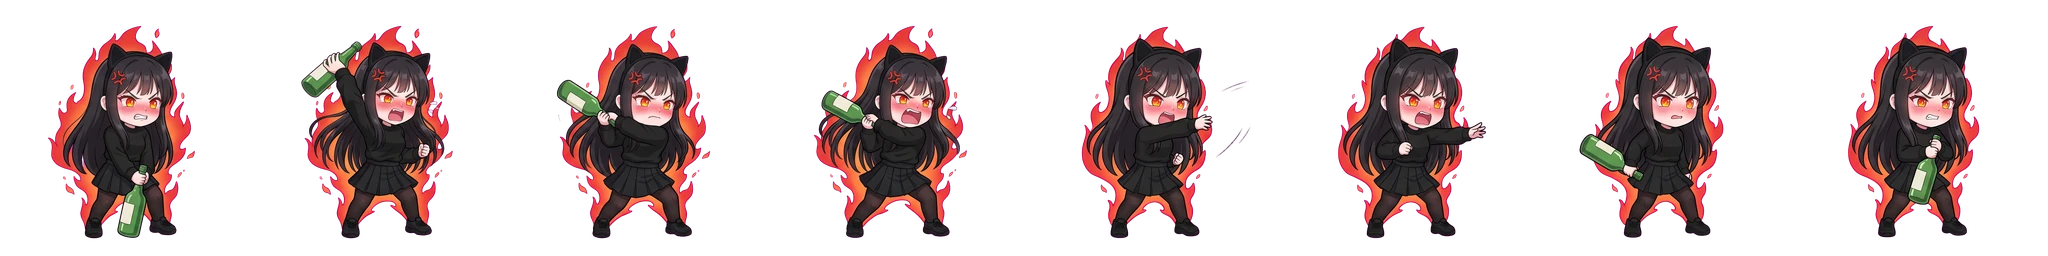
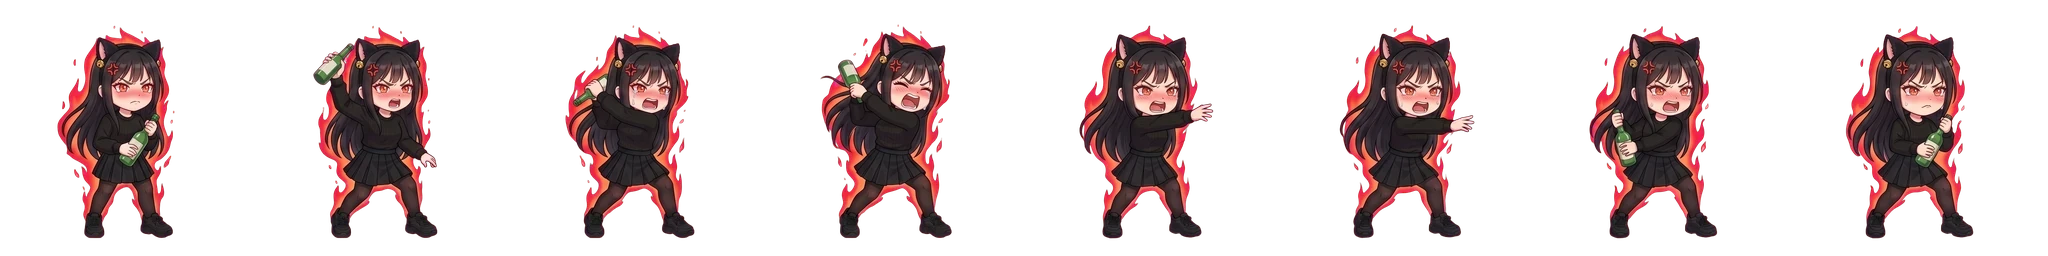
최은옥 그림체를 다른 멤버에 맞춰 다시 그림 (도감 HQ · 두 모습 · 썸네일 · 작은 도감 · 인게임 평소/분노 띠) — 우리 멤버 그림을 참고로 붙여 Gemini 로 생성 · 성인 비율 · 키 작게 · 얼굴 위치 새로 · ART_VER 4 · ?v=20261014r
Claude-Session: https://claude.ai/code/session_016zscpnQTe5fAmJRC7J2Wse

diff --git a/public/langbang/game.js b/public/langbang/game.js
@@ -6208,10 +6208,10 @@ const DEX_FLAVOR = {
 };
 // 도감 카드 세로 영문 이름 · 얼굴 위치 (dexhq 전신 그림 기준: 가운데 x, y, 얼굴 폭 — 그림 폭 대비)
 const DEX_EN = { dragon: 'PARK NAYOUNG', subin: 'LIM SUBIN', baul: 'SONG BAUL', byunghwa: 'KANG BYUNGHWA', jeongseob: 'YOON JEONGSEOB', jiwon: 'YEO JIWON', wonsik: 'JUNG WONSIK', bangjang: 'BANGJANG', staff: 'STAFF', gunman: 'MR. CLEAN', gunnyeo: 'MS. CLEAN', myunghoon: 'SEO MYUNGHOON', dohoon: 'KIM DOHOON', ingyu: 'BAEK INGYU', donghan: 'MOON DONGHAN', youngjun: 'KIM YOUNGJUN', eunok: 'CHOI EUNOK', hanna: 'LEE HANNA', sunggu: 'KANG SUNGGU', junseo: 'YOON JUNSEO', hyungyeong: 'BAE HYUNGYEONG', ara: 'KO ARA', hochan: 'LEE HOCHAN', soyoung: 'JEONG SOYOUNG', jieun: 'OH JIEUN', sanghwa: 'PARK SANGHWA', jungmin: 'HONG JUNGMIN' };
-const DEX_FACE = { subin: [0.53, 0.115, 0.13], baul: [0.49, 0.085, 0.12], byunghwa: [0.42, 0.085, 0.11], jeongseob: [0.5, 0.1, 0.13], hochan: [0.49, 0.125, 0.17], bangjang: [0.45, 0.1, 0.15], staff: [0.47, 0.085, 0.13], gunnyeo: [0.47, 0.09, 0.13], eunok: [0.52, 0.19, 0.13], hanna: [0.47, 0.083, 0.13], sunggu: [0.49, 0.09, 0.14], gunman: [0.58, 0.085, 0.13], dohoon: [0.55, 0.09, 0.13], myunghoon: [0.56, 0.1, 0.15], youngjun: [0.49, 0.085, 0.13], donghan: [0.62, 0.11, 0.17], ingyu: [0.48, 0.1, 0.13], junseo: [0.55, 0.11, 0.14], ara: [0.37, 0.32, 0.12], hyungyeong: [0.55, 0.19, 0.2], jungmin: [0.44, 0.11, 0.12], soyoung: [0.47, 0.11, 0.13], jieun: [0.52, 0.12, 0.13], sanghwa: [0.45, 0.07, 0.12], jiwon: [0.48, 0.075, 0.12], wonsik: [0.47, 0.08, 0.12], baul: [0.49, 0.085, 0.12], junyoung: [0.5, 0.2, 0.3] }; // [가로 가운데, 세로 가운데, 얼굴 높이] (그림 대비)
+const DEX_FACE = { subin: [0.53, 0.115, 0.13], baul: [0.49, 0.085, 0.12], byunghwa: [0.42, 0.085, 0.11], jeongseob: [0.5, 0.1, 0.13], hochan: [0.49, 0.125, 0.17], bangjang: [0.45, 0.1, 0.15], staff: [0.47, 0.085, 0.13], gunnyeo: [0.47, 0.09, 0.13], eunok: [0.53, 0.248, 0.105], hanna: [0.47, 0.083, 0.13], sunggu: [0.49, 0.09, 0.14], gunman: [0.58, 0.085, 0.13], dohoon: [0.55, 0.09, 0.13], myunghoon: [0.56, 0.1, 0.15], youngjun: [0.49, 0.085, 0.13], donghan: [0.62, 0.11, 0.17], ingyu: [0.48, 0.1, 0.13], junseo: [0.55, 0.11, 0.14], ara: [0.37, 0.32, 0.12], hyungyeong: [0.55, 0.19, 0.2], jungmin: [0.44, 0.11, 0.12], soyoung: [0.47, 0.11, 0.13], jieun: [0.52, 0.12, 0.13], sanghwa: [0.45, 0.07, 0.12], jiwon: [0.48, 0.075, 0.12], wonsik: [0.47, 0.08, 0.12], baul: [0.49, 0.085, 0.12], junyoung: [0.5, 0.2, 0.3] }; // [가로 가운데, 세로 가운데, 얼굴 높이] (그림 대비)
 // 얼굴 맞춤 자르기: 얼굴 높이 = 칸 높이의 f · 얼굴 가운데 = (50%, cy) — 그림 비율과 상관없이 (자기 크기 기준 translate)
 // 동그란 얼굴용 얼굴 상자 (썸네일 기준 · 이마~턱 · 가운데 x, 가운데 y, 높이) — 그림을 재서 맞춘 값
-const FACE_BOX = { subin: [0.53, 0.12, 0.095], byunghwa: [0.42, 0.1, 0.075], hochan: [0.44, 0.115, 0.085], bangjang: [0.47, 0.1, 0.085], staff: [0.47, 0.115, 0.09], gunnyeo: [0.39, 0.135, 0.11], eunok: [0.52, 0.2, 0.11], hanna: [0.49, 0.11, 0.11], sunggu: [0.52, 0.165, 0.1], gunman: [0.55, 0.115, 0.09], dohoon: [0.57, 0.165, 0.095], myunghoon: [0.565, 0.145, 0.13], youngjun: [0.575, 0.18, 0.1], donghan: [0.63, 0.19, 0.12], ingyu: [0.45, 0.105, 0.095], junseo: [0.56, 0.115, 0.095], ara: [0.42, 0.32, 0.1], hyungyeong: [0.55, 0.24, 0.12], jungmin: [0.42, 0.155, 0.09], soyoung: [0.45, 0.145, 0.09], jieun: [0.55, 0.145, 0.11], sanghwa: [0.48, 0.11, 0.085], jiwon: [0.47, 0.095, 0.075], wonsik: [0.6, 0.095, 0.09], baul: [0.49, 0.09, 0.085], jeongseob: [0.52, 0.08, 0.075] };
+const FACE_BOX = { subin: [0.53, 0.12, 0.095], byunghwa: [0.42, 0.1, 0.075], hochan: [0.44, 0.115, 0.085], bangjang: [0.47, 0.1, 0.085], staff: [0.47, 0.115, 0.09], gunnyeo: [0.39, 0.135, 0.11], eunok: [0.53, 0.255, 0.09], hanna: [0.49, 0.11, 0.11], sunggu: [0.52, 0.165, 0.1], gunman: [0.55, 0.115, 0.09], dohoon: [0.57, 0.165, 0.095], myunghoon: [0.565, 0.145, 0.13], youngjun: [0.575, 0.18, 0.1], donghan: [0.63, 0.19, 0.12], ingyu: [0.45, 0.105, 0.095], junseo: [0.56, 0.115, 0.095], ara: [0.42, 0.32, 0.1], hyungyeong: [0.55, 0.24, 0.12], jungmin: [0.42, 0.155, 0.09], soyoung: [0.45, 0.145, 0.09], jieun: [0.55, 0.145, 0.11], sanghwa: [0.48, 0.11, 0.085], jiwon: [0.47, 0.095, 0.075], wonsik: [0.6, 0.095, 0.09], baul: [0.49, 0.09, 0.085], jeongseob: [0.52, 0.08, 0.075] };
 // 동그라미 안에 얼굴: 얼굴(이마~턱)이 지름의 70% · 가운데
 function faceCircStyle(id, f = 0.7, cy = 0.5) {
   const fb = (HWUI && HWUI.costumeFace(id)) || FACE_BOX[id] || DEX_FACE[id] || [0.48, 0.12, 0.1]; // (할로윈 의상 썸네일은 의상 얼굴 자리)

diff --git a/public/langbang/index.html b/public/langbang/index.html
@@ -28,14 +28,14 @@
   <link rel="stylesheet" href="https://cdn.jsdelivr.net/gh/orioncactus/pretendard@v1.3.9/dist/web/variable/pretendardvariable-dynamic-subset.min.css">
   <style>#bootld{position:fixed;inset:0;z-index:90;background:#0b0a16;display:grid;place-items:end center;transition:opacity .35s}#bootld .bl-bg{position:absolute;inset:0;width:100%;height:100%;object-fit:cover;opacity:.55}#bootld.out{opacity:0;pointer-events:none}</style>
   <link rel="preload" as="image" href="/img/lb/title_poster.jpg?v=3" fetchpriority="high">
-  <link rel="stylesheet" href="/langbang/style.css?v=20261014q">
-  <link rel="stylesheet" href="/langbang/friends.css?v=20261014q">
-  <link rel="stylesheet" href="/langbang/tower.css?v=20261014q">
-  <link rel="stylesheet" href="/langbang/raid2.css?v=20261014q">
-  <link rel="stylesheet" href="/langbang/bonkae.css?v=20261014q">
-  <link rel="stylesheet" href="/langbang/transit.css?v=20261014q">
-  <link rel="stylesheet" href="/langbang/tutorial.css?v=20261014q">
-  <link rel="stylesheet" href="/langbang/hw.css?v=20261014q">
+  <link rel="stylesheet" href="/langbang/style.css?v=20261014r">
+  <link rel="stylesheet" href="/langbang/friends.css?v=20261014r">
+  <link rel="stylesheet" href="/langbang/tower.css?v=20261014r">
+  <link rel="stylesheet" href="/langbang/raid2.css?v=20261014r">
+  <link rel="stylesheet" href="/langbang/bonkae.css?v=20261014r">
+  <link rel="stylesheet" href="/langbang/transit.css?v=20261014r">
+  <link rel="stylesheet" href="/langbang/tutorial.css?v=20261014r">
+  <link rel="stylesheet" href="/langbang/hw.css?v=20261014r">
 </head>
 <body>
   <div id="stage">
@@ -102,7 +102,7 @@
     <div id="toast" hidden></div>
   </div>
   <noscript>자바스크립트를 켜야 게임을 할 수 있어요.</noscript>
-  <script type="importmap">{"imports": {"/langbang/game.js": "/langbang/game.js?v=20261014q", "/langbang/season-fx.js": "/langbang/season-fx.js?v=20261014q", "/langbang/season.js": "/langbang/season.js?v=20261014q", "/langbang/cardtext.js": "/langbang/cardtext.js?v=20261014q", "/langbang/data.js": "/langbang/data.js?v=20261014q", "/langbang/sim.js": "/langbang/sim.js?v=20261014q", "/langbang/render.js": "/langbang/render.js?v=20261014q", "/langbang/live.js": "/langbang/live.js?v=20261014q", "/langbang/api.js": "/langbang/api.js?v=20261014q", "/langbang/audio.js": "/langbang/audio.js?v=20261014q", "/langbang/share.js": "/langbang/share.js?v=20261014q", "/langbang/flavor.js": "/langbang/flavor.js?v=20261014q", "/langbang/friends.js": "/langbang/friends.js?v=20261014q", "/langbang/tower.js": "/langbang/tower.js?v=20261014q", "/langbang/tower-ui.js": "/langbang/tower-ui.js?v=20261014q", "/langbang/transit.js": "/langbang/transit.js?v=20261014q", "/langbang/hw-event.js": "/langbang/hw-event.js?v=20261014q", "/langbang/hw-sim.js": "/langbang/hw-sim.js?v=20261014q", "/langbang/hw-ui.js": "/langbang/hw-ui.js?v=20261014q", "/langbang/hw-fx.js": "/langbang/hw-fx.js?v=20261014q", "/langbang/patchnotes.js": "/langbang/patchnotes.js?v=20261014q"}}</script>
-  <script type="module" src="/langbang/game.js?v=20261014q"></script>
+  <script type="importmap">{"imports": {"/langbang/game.js": "/langbang/game.js?v=20261014r", "/langbang/season-fx.js": "/langbang/season-fx.js?v=20261014r", "/langbang/season.js": "/langbang/season.js?v=20261014r", "/langbang/cardtext.js": "/langbang/cardtext.js?v=20261014r", "/langbang/data.js": "/langbang/data.js?v=20261014r", "/langbang/sim.js": "/langbang/sim.js?v=20261014r", "/langbang/render.js": "/langbang/render.js?v=20261014r", "/langbang/live.js": "/langbang/live.js?v=20261014r", "/langbang/api.js": "/langbang/api.js?v=20261014r", "/langbang/audio.js": "/langbang/audio.js?v=20261014r", "/langbang/share.js": "/langbang/share.js?v=20261014r", "/langbang/flavor.js": "/langbang/flavor.js?v=20261014r", "/langbang/friends.js": "/langbang/friends.js?v=20261014r", "/langbang/tower.js": "/langbang/tower.js?v=20261014r", "/langbang/tower-ui.js": "/langbang/tower-ui.js?v=20261014r", "/langbang/transit.js": "/langbang/transit.js?v=20261014r", "/langbang/hw-event.js": "/langbang/hw-event.js?v=20261014r", "/langbang/hw-sim.js": "/langbang/hw-sim.js?v=20261014r", "/langbang/hw-ui.js": "/langbang/hw-ui.js?v=20261014r", "/langbang/hw-fx.js": "/langbang/hw-fx.js?v=20261014r", "/langbang/patchnotes.js": "/langbang/patchnotes.js?v=20261014r"}}</script>
+  <script type="module" src="/langbang/game.js?v=20261014r"></script>
 </body>
 </html>

diff --git a/public/langbang/data.js b/public/langbang/data.js
@@ -978,10 +978,10 @@ const ART_READY = new Set(['h_jungmin', 'h_junyoung', 'h_soyoung', 'h_jieun', 'h
 //  바뀐 파일만 적는다 (전부 붙이면 배포마다 모두 다시 받아서 전송량이 폭증) · 다시 바꾸면 숫자를 올린다
 export const ART_VER = {
   h_subin: 2, h_subin_attack: 2, 'dex/subin': 2, 'dexhq/subin': 2, 'dexhq/thumb/subin': 2,
-  h_donghan_attack: 2, h_eunok_attack: 3, h_dragon_attack: 2, e_boss_bestman_attack: 2, e_boss_bestman_skill: 2, e_boss_bestman_rage: 2,
+  h_donghan_attack: 2, h_eunok_attack: 4, h_dragon_attack: 2, e_boss_bestman_attack: 2, e_boss_bestman_skill: 2, e_boss_bestman_rage: 2,
   h_donghan_cafe: 2, h_donghan_cafe_tf: 2, h_donghan_cafe_attack: 2, 'dex/donghan_cafe': 2, 'dexhq/donghan_cafe': 2, 'dexhq/thumb/donghan_cafe': 2, // 문동한 카페인 풀충전 새로 그림 (Gemini)
   'fx/w_card_r': 2, 'fx/w_card_y': 2, // 운영진 레드·옐로카드 광택 카드로 새로 그림 (Gemini)
-  h_eunok: 3, h_eunok_rage: 3, h_eunok_rage_attack: 3, 'dex/eunok': 3, 'dex/eunok_rage': 3, 'dexhq/eunok': 3, 'dexhq/eunok_rage': 3, 'dexhq/eunok_duo': 3, 'dexhq/thumb/eunok': 3, 'dexhq/thumb/eunok_rage': 3, 'dexhq/thumb/eunok_duo': 3, 'fx/w_cup': 3, // 최은옥 술버릇 컨셉으로 새로 그림 (울면서 소주잔 · 분노 소주병 · Gemini)
+  h_eunok: 4, h_eunok_rage: 4, h_eunok_rage_attack: 4, 'dex/eunok': 4, 'dex/eunok_rage': 4, 'dexhq/eunok': 4, 'dexhq/eunok_rage': 4, 'dexhq/eunok_duo': 4, 'dexhq/thumb/eunok': 4, 'dexhq/thumb/eunok_rage': 4, 'dexhq/thumb/eunok_duo': 4, 'fx/w_cup': 3, // 최은옥 술버릇 컨셉 (울면서 소주잔 · 분노 소주병) — 다른 멤버 그림체에 맞춰 다시 그림 (Gemini · 4)
   'season/halloween_key': 2, // (season.js 의 keyart 주소에도 ?v=2 를 직접 붙였다 — 허브 카드 · 로비 배경)
 };
 export const artV = (u) => { const m = typeof u === 'string' && /^\/img\/lb\/([^?]+)\.webp$/.exec(u); return m && ART_VER[m[1]] ? `${u}?v=${ART_VER[m[1]]}` : u; };
